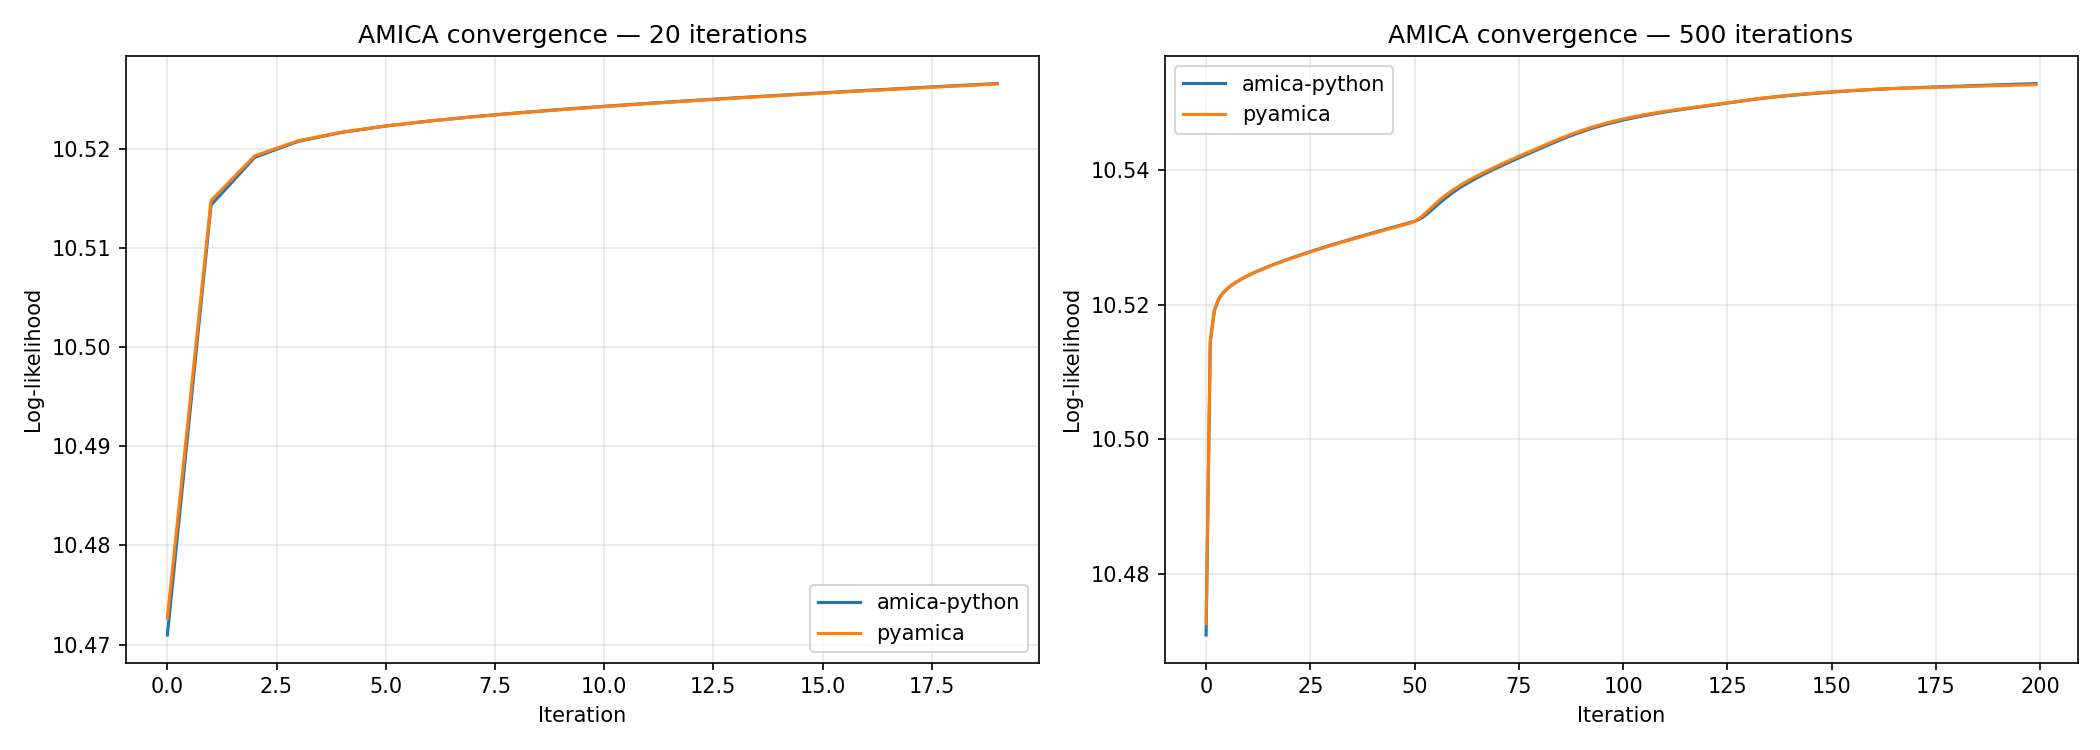
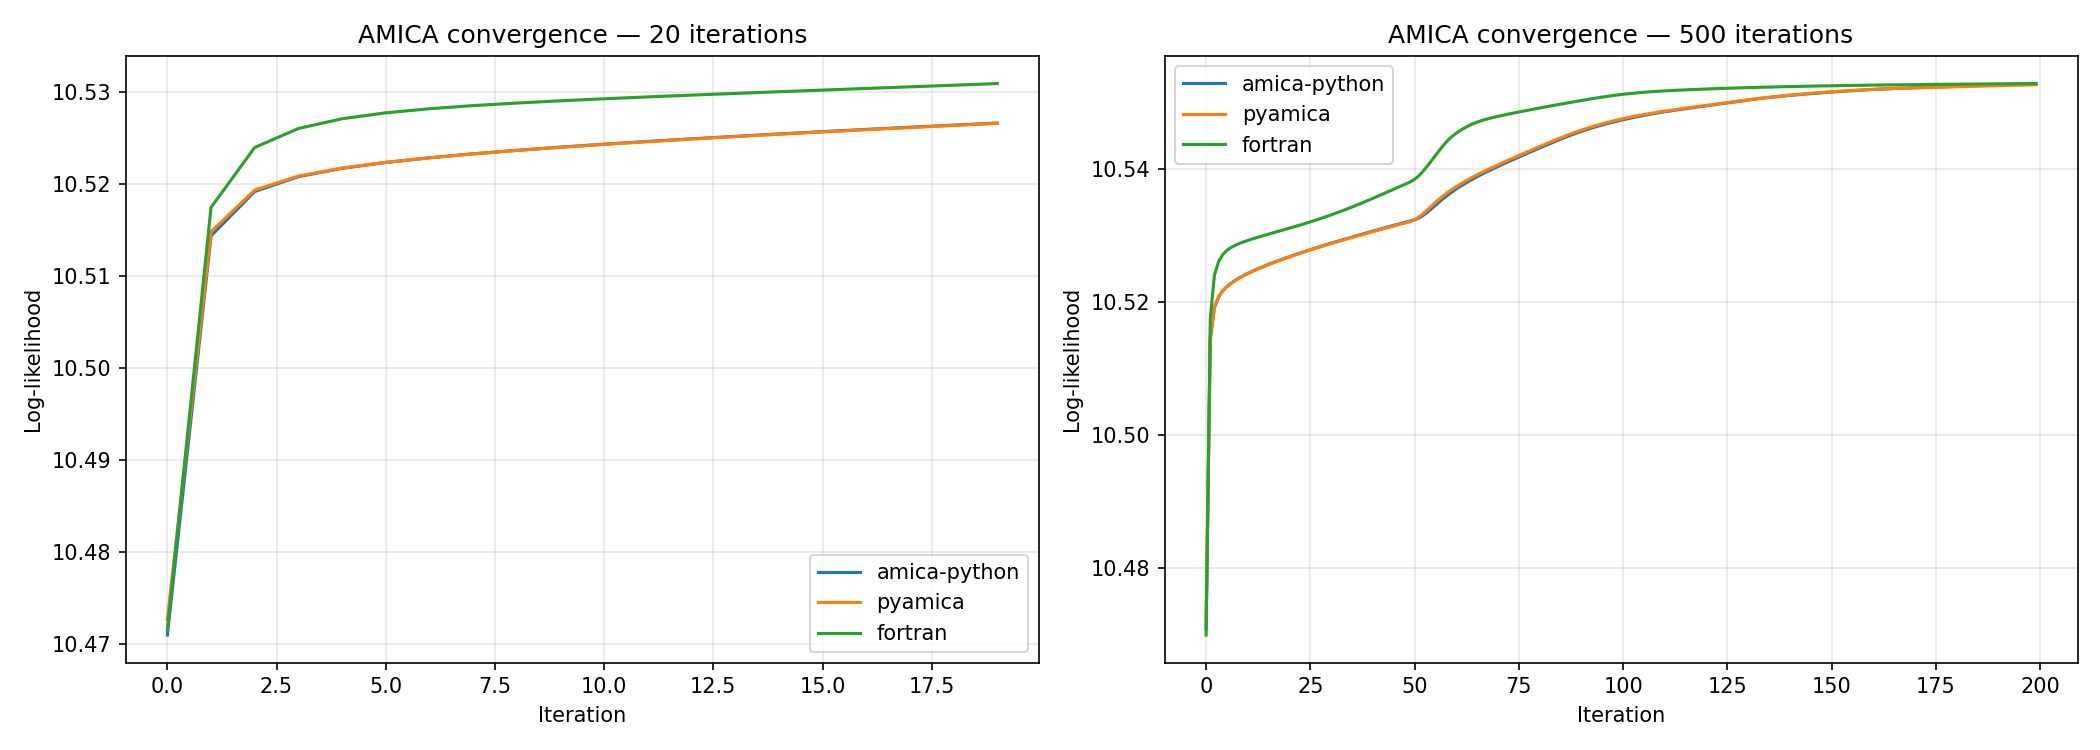
Update three-way parity: amica-python vs pyamica vs Fortran
Apr 17 run with patched amica17 reference. Initial LL within 6e-5 nats
of Fortran (better than pyamica's 1.6e-3). 200-iter trajectory LL within
8e-6 relative; W diverges to 0.247 row-corr as expected (different RNG
seeds put each run in a different local basin — see FORTRAN_VALIDATION_GUIDE
section 4.3).

diff --git a/results/parity/PARITY_REPORT.md b/results/parity/PARITY_REPORT.md
@@ -8,6 +8,16 @@
 - sphere_max_abs_diff: 1.338048605248332e-08
 - sphere_frobenius: 4.262758765450267e-08
 
+### amica-python vs fortran
+
+- sphere_max_abs_diff: 267491.14683476015
+- sphere_frobenius: 1574194.5817845173
+
+### pyamica vs fortran
+
+- sphere_max_abs_diff: 267491.1468347589
+- sphere_frobenius: 1574194.581784518
+
 
 ## L2_initial_ll
 
@@ -17,23 +27,65 @@
 - ll_b: 10.47265116506481
 - ll_diff: 0.0016916306398169212
 
+### amica-python vs fortran
+
+- ll_a: 10.470959534424994
+- ll_b: 10.4710175997
+- ll_diff: 5.806527500595848e-05
+
+### pyamica vs fortran
+
+- ll_a: 10.47265116506481
+- ll_b: 10.4710175997
+- ll_diff: 0.0016335653648109627
+
 
 ## L3_single_iter
 
 ### amica-python vs pyamica
 
-- W_max_abs_diff: 0.005063845718558067
-- W_frobenius: 0.07989887199518317
-- W_min_row_corr: 0.9998682511676313
-- W_mean_row_corr: 0.9998934997895184
-- alpha_max_diff: 0.026402513730985455
-- alpha_mean_diff: 0.005540113241690877
-- mu_max_diff: 0.06860826115059304
-- mu_mean_diff: 0.018585014675955365
-- beta_max_diff: 0.14368720049802386
-- beta_mean_diff: 0.031715433605854194
-- rho_max_diff: 0.14689444988596279
-- rho_mean_diff: 0.019546930260562572
+- W_max_abs_diff: 0.005077855812447057
+- W_frobenius: 0.06940365622327496
+- W_min_row_corr: 0.9998961703033583
+- W_mean_row_corr: 0.9999193960021058
+- alpha_max_diff: 0.06908168294388473
+- alpha_mean_diff: 0.010914430180848705
+- mu_max_diff: 0.19340527704163868
+- mu_mean_diff: 0.028306270733669838
+- beta_max_diff: 0.2641843900999783
+- beta_mean_diff: 0.05554665237280004
+- rho_max_diff: 0.3067712879678357
+- rho_mean_diff: 0.0406594574874875
+
+### amica-python vs fortran
+
+- W_max_abs_diff: 0.03280322412843162
+- W_frobenius: 0.1264402977546605
+- W_min_row_corr: 0.9990836856708287
+- W_mean_row_corr: 0.9997379605746869
+- alpha_max_diff: 0.1105410208282766
+- alpha_mean_diff: 0.01350688972219602
+- mu_max_diff: 0.2121645490630203
+- mu_mean_diff: 0.03825137747054984
+- beta_max_diff: 0.5449151776615175
+- beta_mean_diff: 0.08720759547603824
+- rho_max_diff: 0.27918193721739026
+- rho_mean_diff: 0.06179995255654603
+
+### pyamica vs fortran
+
+- W_max_abs_diff: 0.030728624861031253
+- W_frobenius: 0.10621478595290255
+- W_min_row_corr: 0.9992813165732637
+- W_mean_row_corr: 0.999815131471128
+- alpha_max_diff: 0.10908064806117018
+- alpha_mean_diff: 0.013568824565696858
+- mu_max_diff: 0.20719039779014337
+- mu_mean_diff: 0.03525335680268791
+- beta_max_diff: 0.5217223769324164
+- beta_mean_diff: 0.09271796811742851
+- rho_max_diff: 0.2861349103472184
+- rho_mean_diff: 0.060795696868698804
 
 
 ## L4_trajectory
@@ -44,6 +96,22 @@
 - ll_mean_abs_diff: 0.00013941717544119214
 - ll_final_diff: 3.972381351502463e-05
 - ll_final_rel_diff: 3.7736492139179447e-06
+- n_compared: 20
+
+### amica-python vs fortran
+
+- ll_max_abs_diff: 0.00539921825963674
+- ll_mean_abs_diff: 0.004551008657231392
+- ll_final_diff: 0.004292064085589686
+- ll_final_rel_diff: 0.00040773387118396657
+- n_compared: 20
+
+### pyamica vs fortran
+
+- ll_max_abs_diff: 0.005388641066996769
+- ll_mean_abs_diff: 0.004561357602667027
+- ll_final_diff: 0.004331787899104711
+- ll_final_rel_diff: 0.00041150907328877545
 - n_compared: 20
 
 
@@ -60,3 +128,27 @@
 - W_frobenius: 0.27188828653884284
 - W_min_row_corr: 0.9838946062182475
 - W_mean_row_corr: 0.9987392027364933
+
+### amica-python vs fortran
+
+- ll_max_abs_diff: 0.008404604208651634
+- ll_mean_abs_diff: 0.0034321813408669756
+- ll_final_diff: 8.240205197296291e-06
+- ll_final_rel_diff: 7.808507481325347e-07
+- n_compared: 200
+- W_max_abs_diff: 0.7961299060202544
+- W_frobenius: 5.464549070509647
+- W_min_row_corr: 0.2468417500397731
+- W_mean_row_corr: 0.5210549361717711
+
+### pyamica vs fortran
+
+- ll_max_abs_diff: 0.008078154376716995
+- ll_mean_abs_diff: 0.0033862373468241634
+- ll_final_diff: 0.0001652888797956109
+- ll_final_rel_diff: 1.566318594710519e-05
+- n_compared: 200
+- W_max_abs_diff: 0.7956195343176419
+- W_frobenius: 5.445876617200125
+- W_min_row_corr: 0.24399803467911985
+- W_mean_row_corr: 0.5247379321249094
